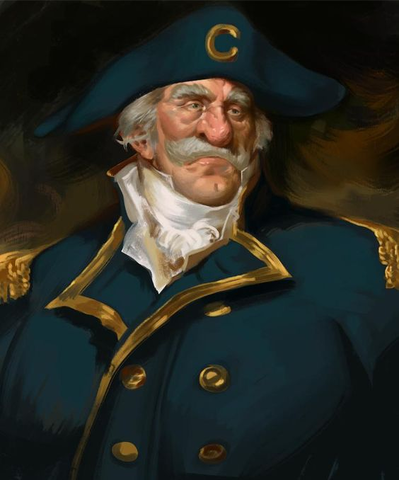
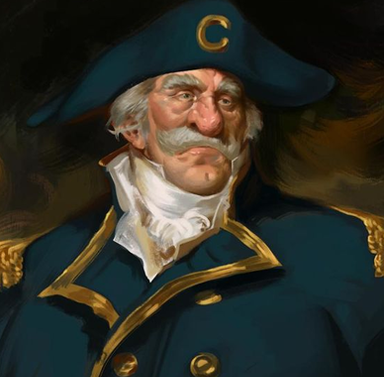
Fixed padding issue and fixed cap image issue

diff --git a/src/components/ui/home/PartnerAndInvestorHero/InvestorCard.tsx b/src/components/ui/home/PartnerAndInvestorHero/InvestorCard.tsx
@@ -19,15 +19,17 @@ const InvestorCard = ({
   return (
     <VStack
       w="full"
-      pb="36px"
-      maxW="360px"
+      paddingLeft="10px"
+      paddingRight="10px"
+      pb="65px"
+      maxW="310px"
       align="center"
       justify="center"
       bgColor={bgColor}
       overflow="hidden"
       position="relative"
       borderRadius="28px"
-      maxH="550px"
+      maxH="449px"
       h="full"
       _hover={{
         transition: '0.5s ease',
@@ -39,23 +41,30 @@ const InvestorCard = ({
         <Image
           src={image}
           objectFit="cover"
-          maxW="330px"
-          h="310px"
+          maxW="270px"
+          h="270px"
           alt={alt}
           mt="16px"
           borderRadius="28px"
         />
       </VStack>
-      <VStack align="center" justify="center">
-        <Text textStyle="bold5" pt="8px" align="center">
+      <VStack align="center" justify="center" marginTop="10px !important">
+        <Text textStyle="bold5" paddingBottom="5px" align="center">
           {name}
         </Text>
-        <Text textStyle="regular3" opacity="0.6" align="center" color={subTitleColor}>
+        <Text
+          textStyle="regular3"
+          margin="0 !important"
+          opacity="0.6"
+          align="center"
+          color={subTitleColor}
+        >
           {title}
         </Text>
         <Text
           height="20px"
           textStyle="regular3"
+          margin="0 !important"
           opacity="0.6"
           align="center"
           display="inline"

diff --git a/src/components/ui/home/PartnerAndInvestorHero/TeamCard.tsx b/src/components/ui/home/PartnerAndInvestorHero/TeamCard.tsx
@@ -17,15 +17,17 @@ const TeamCard = ({
   return (
     <VStack
       w="full"
-      pb="36px"
-      maxW="360px"
+      paddingLeft="15px"
+      paddingRight="15px"
+      pb="40px"
+      maxW="300px"
       align="center"
       justify="center"
       bgColor={bgColor}
       overflow="hidden"
       position="relative"
       borderRadius="28px"
-      maxH="467px"
+      maxH="418px"
       h="full"
       _hover={{
         transition: '0.5s ease',
@@ -34,13 +36,27 @@ const TeamCard = ({
       filter="drop-shadow(0px 4px 4px rgba(0, 0, 0, 0.15)) drop-shadow(0px 4px 14px rgba(0, 0, 0, 0.16))"
     >
       <VStack>
-        <Image src={image} maxW="330" h="310px" alt={alt} mt="16px" borderRadius="28px" />
+        <Image
+          src={image}
+          objectFit="cover"
+          maxW="270"
+          h="270px"
+          alt={alt}
+          mt="16px"
+          borderRadius="28px"
+        />
       </VStack>
-      <VStack align="center" justify="center">
-        <Text textStyle="bold5" pt="8px" align="center">
+      <VStack align="center" justify="center" marginTop="10px !important">
+        <Text textStyle="bold5" align="center">
           {name}
         </Text>
-        <Text textStyle="regular4" opacity="0.6" align="center" color={subTitleColor}>
+        <Text
+          textStyle="regular4"
+          opacity="0.6"
+          align="center"
+          color={subTitleColor}
+          marginTop="0 !important"
+        >
           {title}
         </Text>
       </VStack>

diff --git a/src/components/ui/home/StatusQuoHero/index.tsx b/src/components/ui/home/StatusQuoHero/index.tsx
@@ -15,18 +15,18 @@ const StatusQuoHero = () => {
         justify="center"
         pt={{ base: '120px', md: '0px' }}
       >
-        <Text textStyle="bold7" maxW={{ base: '400px', md: '100%' }} align="center">
-          Changing the status quo
+        <Text textStyle="bold7" maxW={{ base: '400px', md: '60%' }} align="center">
+          The only platform where jumping jacks earn you crypto
         </Text>
         <VStack
           w="full"
-          px="16px"
           maxW="1232px"
+          marginTop="70px !important"
           pos="relative"
           align="center"
           spacing="32px"
           justify={{ base: 'center', md: 'space-between' }}
-          pt={{ base: '16px', lg: '45px' }}
+          pt={{ base: '16px', md: '0' }}
         >
           <Image
             zIndex={10}
@@ -34,7 +34,12 @@ const StatusQuoHero = () => {
             d={{ base: 'flex', lg: 'none' }}
             src={Images.Common.blitzChallenge}
           />
-          <HStack w="full" align="center" justify={{ base: 'center', lg: 'space-between' }}>
+          <HStack
+            w="full"
+            align="center"
+            marginTop="0 !important"
+            justify={{ base: 'center', lg: 'space-between' }}
+          >
             <AnimationInWhenVisible isLeft animationType="move">
               <StatusQuoCard />
               <StatusQuoBlurs />

diff --git a/src/components/ui/home/PartnersAndInvestorHero.tsx b/src/components/ui/home/PartnersAndInvestorHero.tsx
@@ -50,7 +50,7 @@ const PartnerAndInvestorHero = () => {
               columns={6}
               alignContent="center"
               alignItems="center"
-              columnGap={{ base: '8px', sm: '16px', md: '24px', xl: '24px' }}
+              columnGap={{ base: '8px', sm: '16px', md: '50px !important', xl: '24px' }}
               rowGap={{ base: '24px', sm: '16px', md: '24px', xl: '24px' }}
             >
               {Advisors.map((advisor) => (
@@ -99,8 +99,8 @@ const PartnerAndInvestorHero = () => {
             <SimpleGrid
               w="full"
               columns={6}
-              columnGap={{ base: '8px', sm: '16px', md: '24px', xl: '24px' }}
-              rowGap={{ base: '24px', sm: '16px', md: '24px', xl: '24px' }}
+              columnGap={{ base: '8px', sm: '16px', md: '50px !important', xl: '24px' }}
+              rowGap={{ base: '24px', sm: '16px', md: '50px !important', xl: '24px' }}
             >
               {Team.map((team) => (
                 <GridItem

diff --git a/src/components/ui/home/StatusQuoHero/StatusQuoCard.tsx b/src/components/ui/home/StatusQuoHero/StatusQuoCard.tsx
@@ -20,8 +20,8 @@ const StatusQuoCard = () => {
       <Text textStyle="regular3">USE ONLY YOUR BODY</Text>
       <Text textStyle="bold5">Tap into motivation whenever you want.</Text>
       <Text textStyle="regular4" color="electric.100" opacity="0.6">
-        Workout with our computer vision plaftorm ANYTIME with ANYONE, ANYWHERE,. Challenge
-        yourself, friends or family and earn tokens and NFTs!
+        Workout with our computer vision plaftorm ANYTIME with ANYONE, ANYWHERE. Challenge yourself,
+        friends or family and earn tokens and NFTs!
       </Text>
     </VStack>
   );
